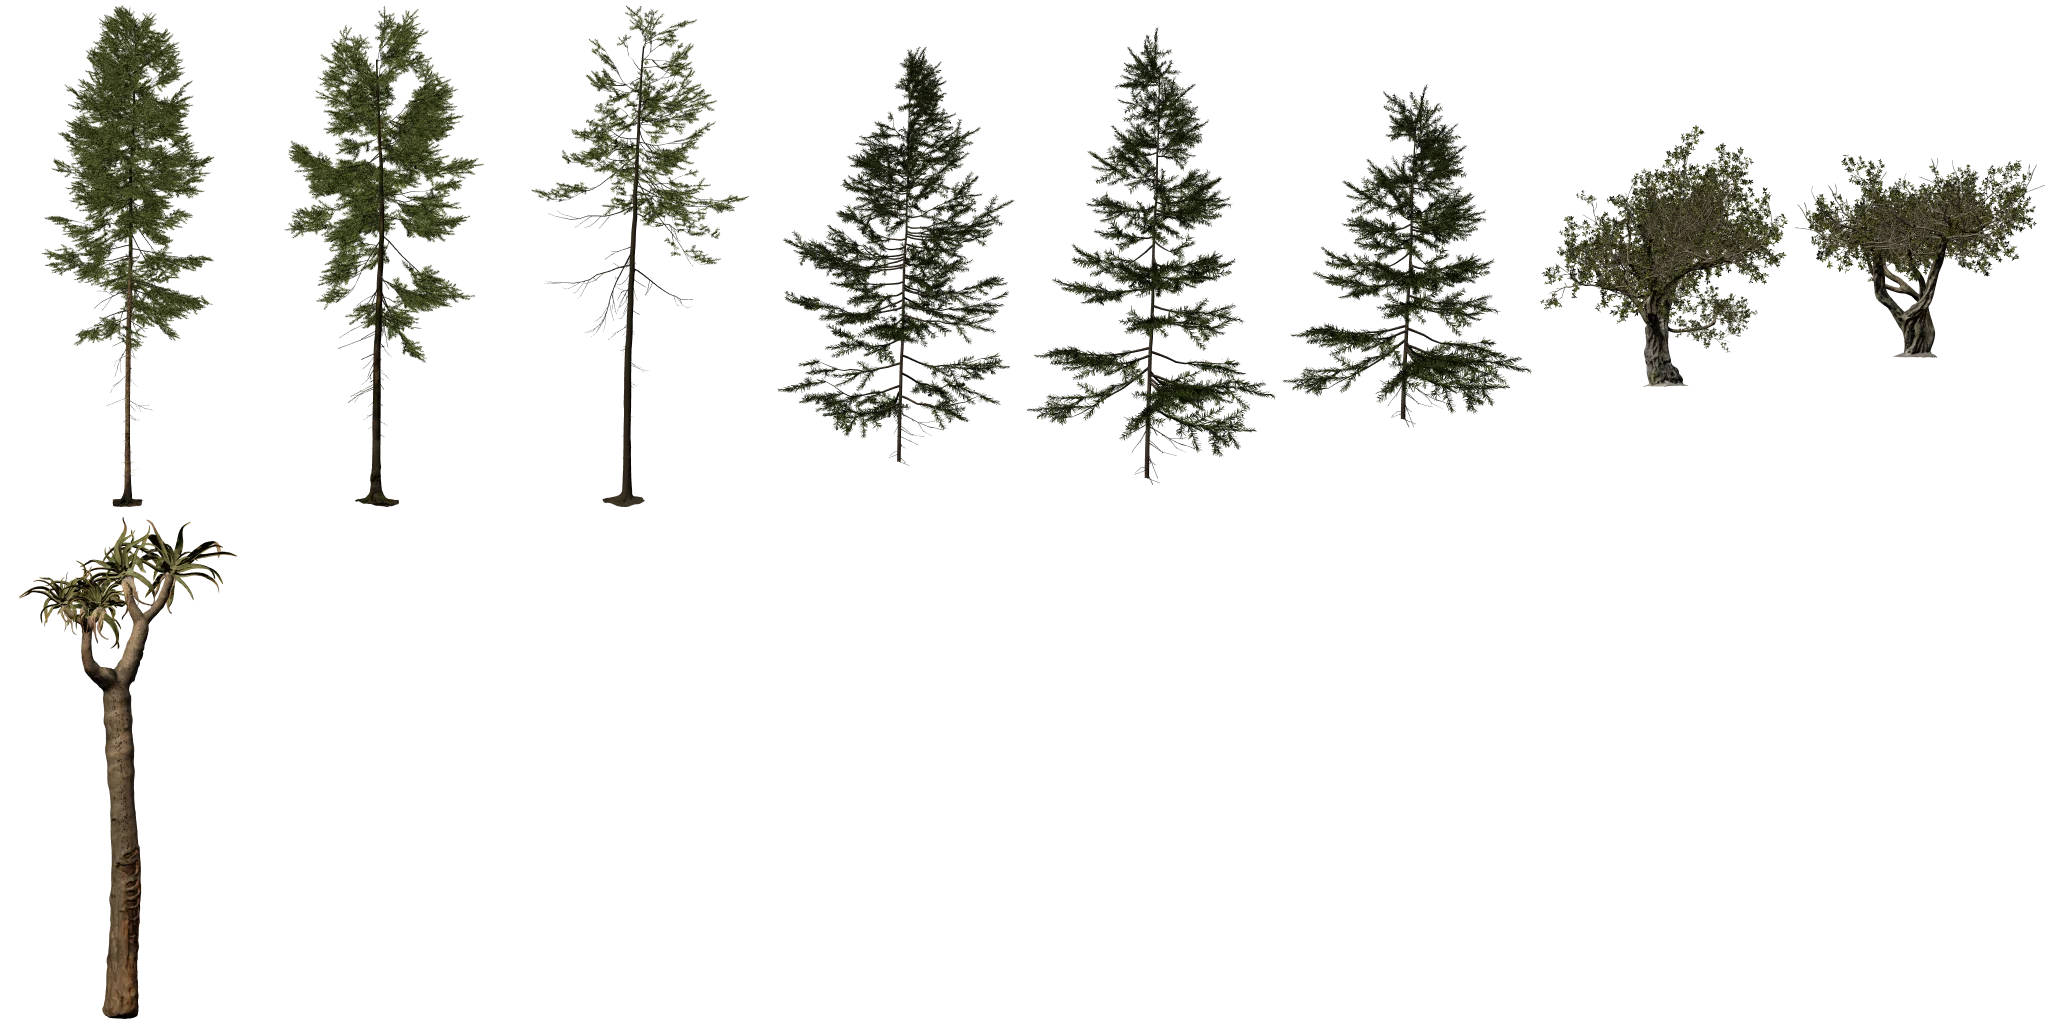
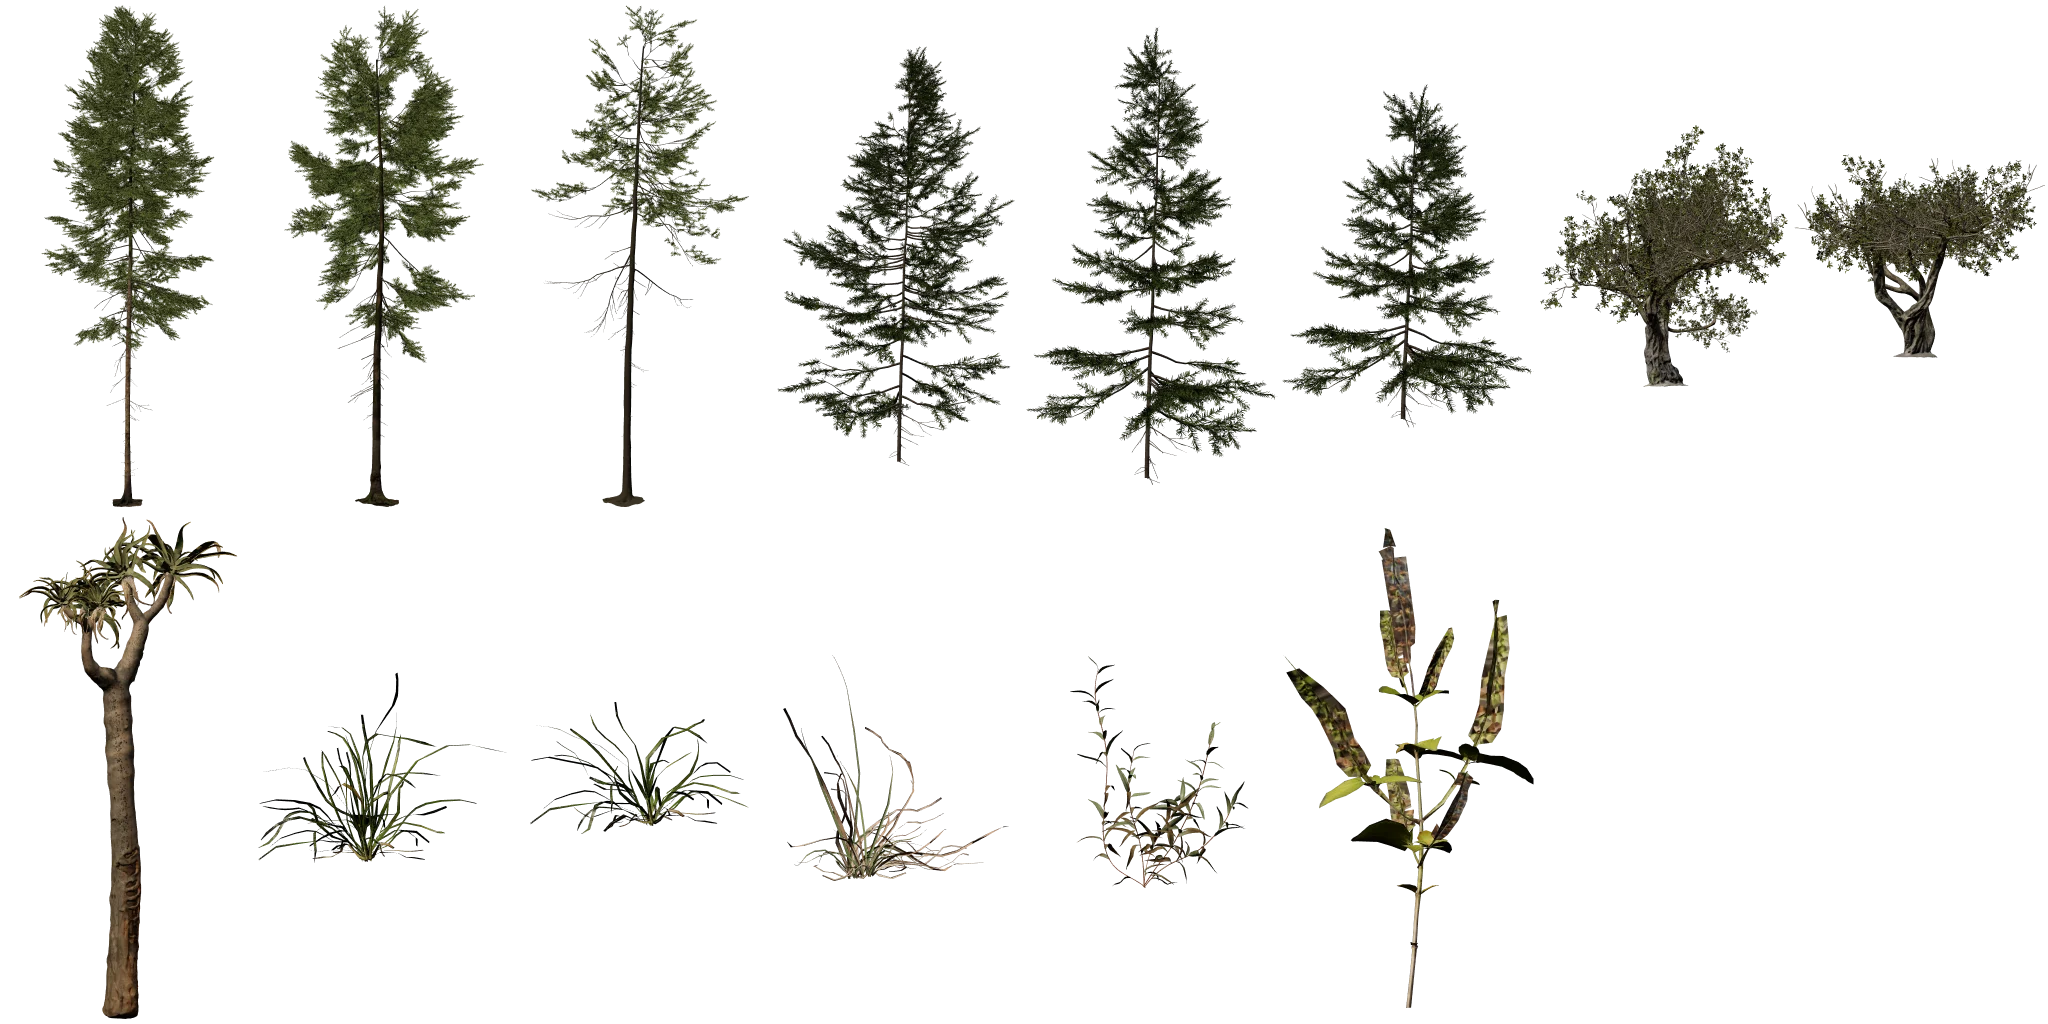
Work in progress: grass tufts and bushes baked into the tree atlas, slimmer race messages
Claude-Session: https://claude.ai/code/session_01GBobAJkSqpPVNqa2GTDbwk

diff --git a/ui.css b/ui.css
@@ -337,3 +337,6 @@ body:has(.screen.full:not([hidden])) .topbar .brand { visibility: hidden; }
 body:has(#flightHud:not([hidden])) #driftPop, body:has(#flightHud:not([hidden])) #drift { top: calc(var(--safe-t) + 150px); }
 body:has(#flightHud:not([hidden])) #subtitle { top: calc(var(--safe-t) + 196px); }
 @media (max-width: 500px) { body:has(#flightHud:not([hidden])) #driftPop, body:has(#flightHud:not([hidden])) #drift { top: calc(var(--safe-t) + 186px); } body:has(#flightHud:not([hidden])) #subtitle { top: calc(var(--safe-t) + 230px); } }
+/* in a race, messages are a slim pill under the timer instead of a box over the road */
+body:has(#hud:not([hidden])) #toast { top: calc(var(--safe-t) + 96px); padding: 4px 12px; font-size: 12px; letter-spacing: .04em; border-radius: 999px;
+  background: rgba(10, 14, 22, .55); border-color: rgba(255, 255, 255, .12); max-width: min(80vw, 320px); pointer-events: none; }

diff --git a/src/scenery.js b/src/scenery.js
@@ -188,7 +188,7 @@ export function buildScenery(path, theme, density, seed) {
         if (nearGap(d)) continue;
         const side = rnd() < 0.5 ? -1 : 1, cell = tufts[Math.floor(rnd() * tufts.length)], bush = cell.key === "bush";
         path.pointAt(d, side * (edge + 0.8 + rnd() * (bush ? 10 : 6)), tmp);
-        const s = (bush ? 1.6 : 1.1) * (0.7 + rnd() * 0.6), c = new THREE.Color().setScalar(light * (0.75 + rnd() * 0.3));
+        const s = (bush ? 1.3 : 0.6) / Math.max(0.05, cell.height) * (0.7 + rnd() * 0.6), c = new THREE.Color().setScalar(light * (0.75 + rnd() * 0.3)); // tufts ~0.6 m, bushes ~1.3 m whatever size the model was
         verge.push({ x: tmp.x, z: tmp.z, y: ground(tmp.x, tmp.z) - cell.base * cell.extent * s, sx: cell.extent * 0.5 * s, sy: cell.extent * s, sz: 1, r: 0, cell: cell.cell, c });
       }
       if (verge.length) add(treeCards(verge, 0));

diff --git a/src/treeatlas.js b/src/treeatlas.js
@@ -12,4 +12,9 @@ export const TREE_CELLS = [
   { key: "broad", cell: 6, base: 0.244, extent: 9.83, height: 5.03 },
   { key: "broad", cell: 7, base: 0.302, extent: 8.58, height: 3.41 },
   { key: "quiver", cell: 8, base: 0.010, extent: 2.77, height: 2.72 },
+  { key: "grass", cell: 9, base: 0.314, extent: 0.38, height: 0.14 },
+  { key: "grass", cell: 10, base: 0.371, extent: 0.39, height: 0.10 },
+  { key: "grass", cell: 11, base: 0.279, extent: 0.41, height: 0.18 },
+  { key: "bush", cell: 12, base: 0.211, extent: 3.74, height: 2.16 },
+  { key: "bush", cell: 13, base: 0.031, extent: 0.38, height: 0.35 },
 ];
